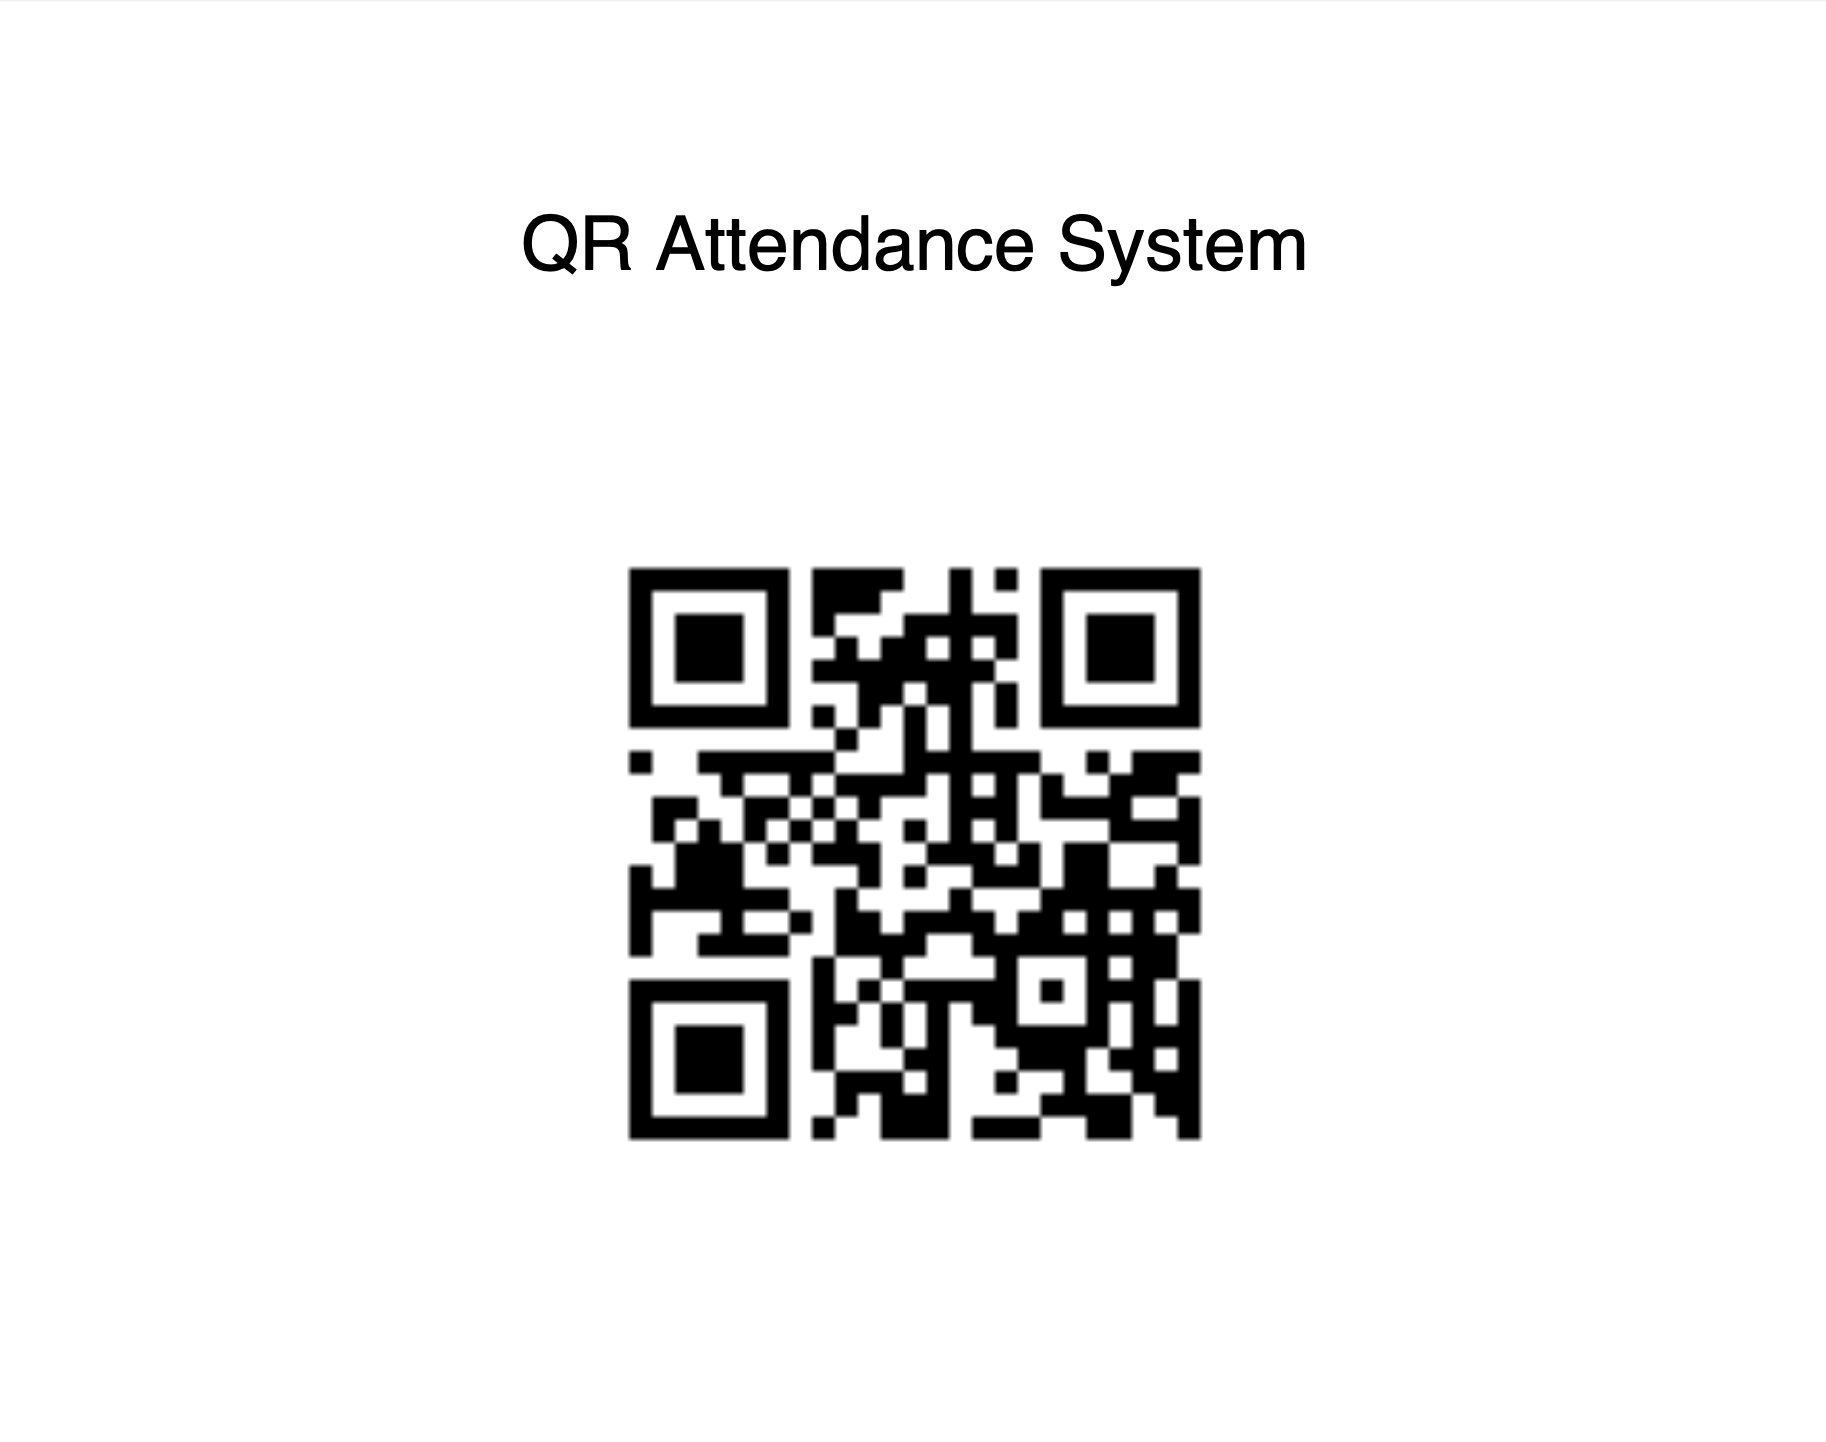
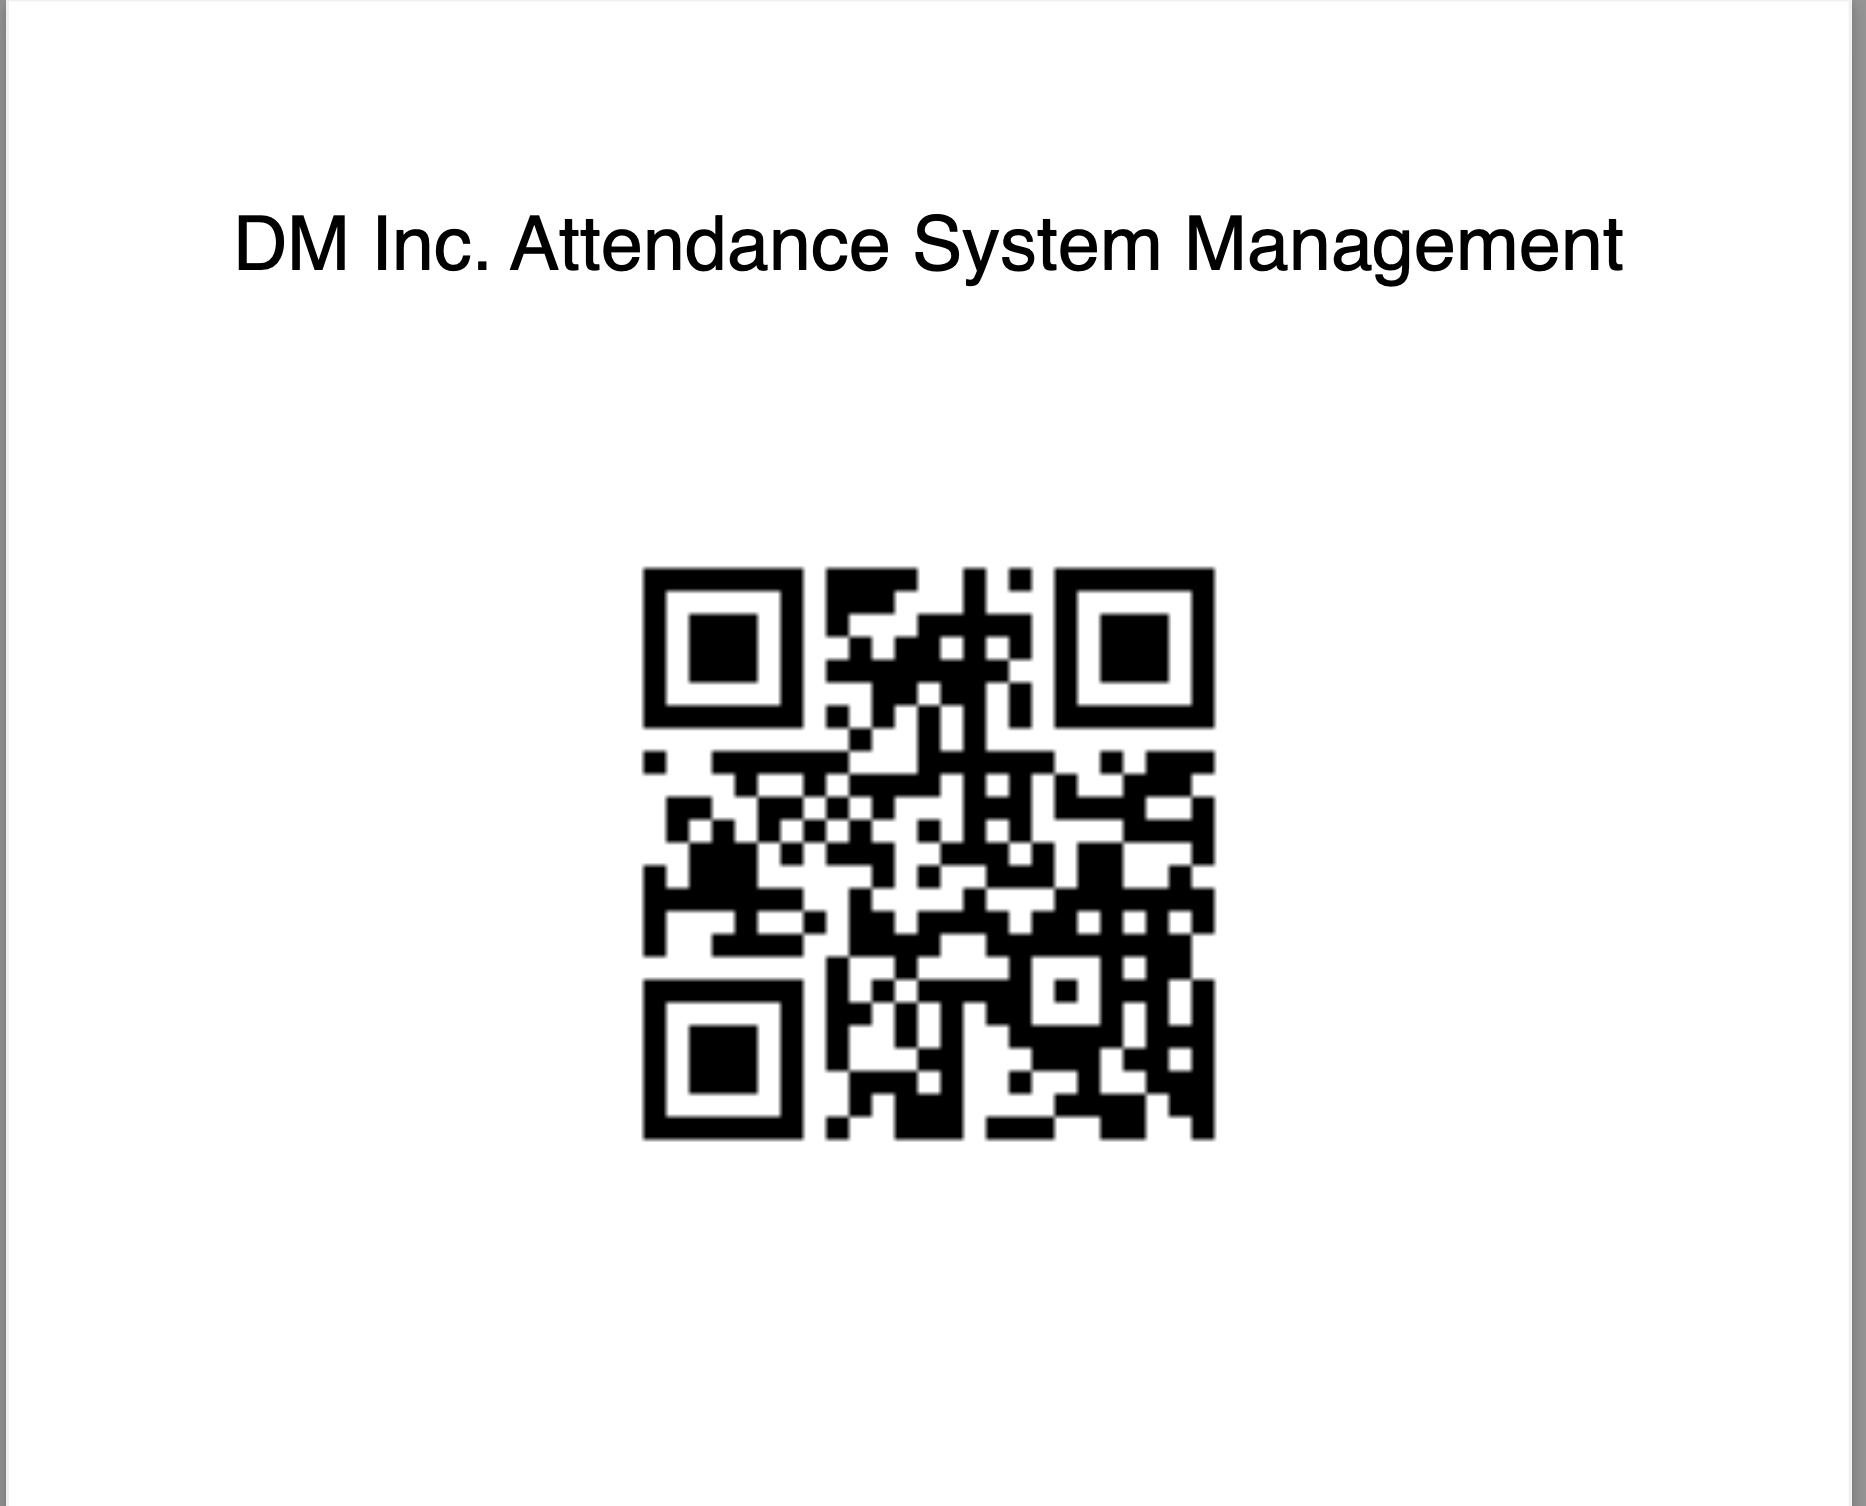
Poster updated

diff --git a/QRPosterGenerator/QRAttendancePDFUpdater.js b/QRPosterGenerator/QRAttendancePDFUpdater.js
@@ -18,7 +18,7 @@ const createPDF = async (qrData) => {
     doc.pipe(fs.createWriteStream(outputPath));
 
     // Title
-    doc.fontSize(25).text('QR Attendance System', {
+    doc.fontSize(25).text('DM Inc. Attendance System Management', {
         align: 'center'
     });
 
